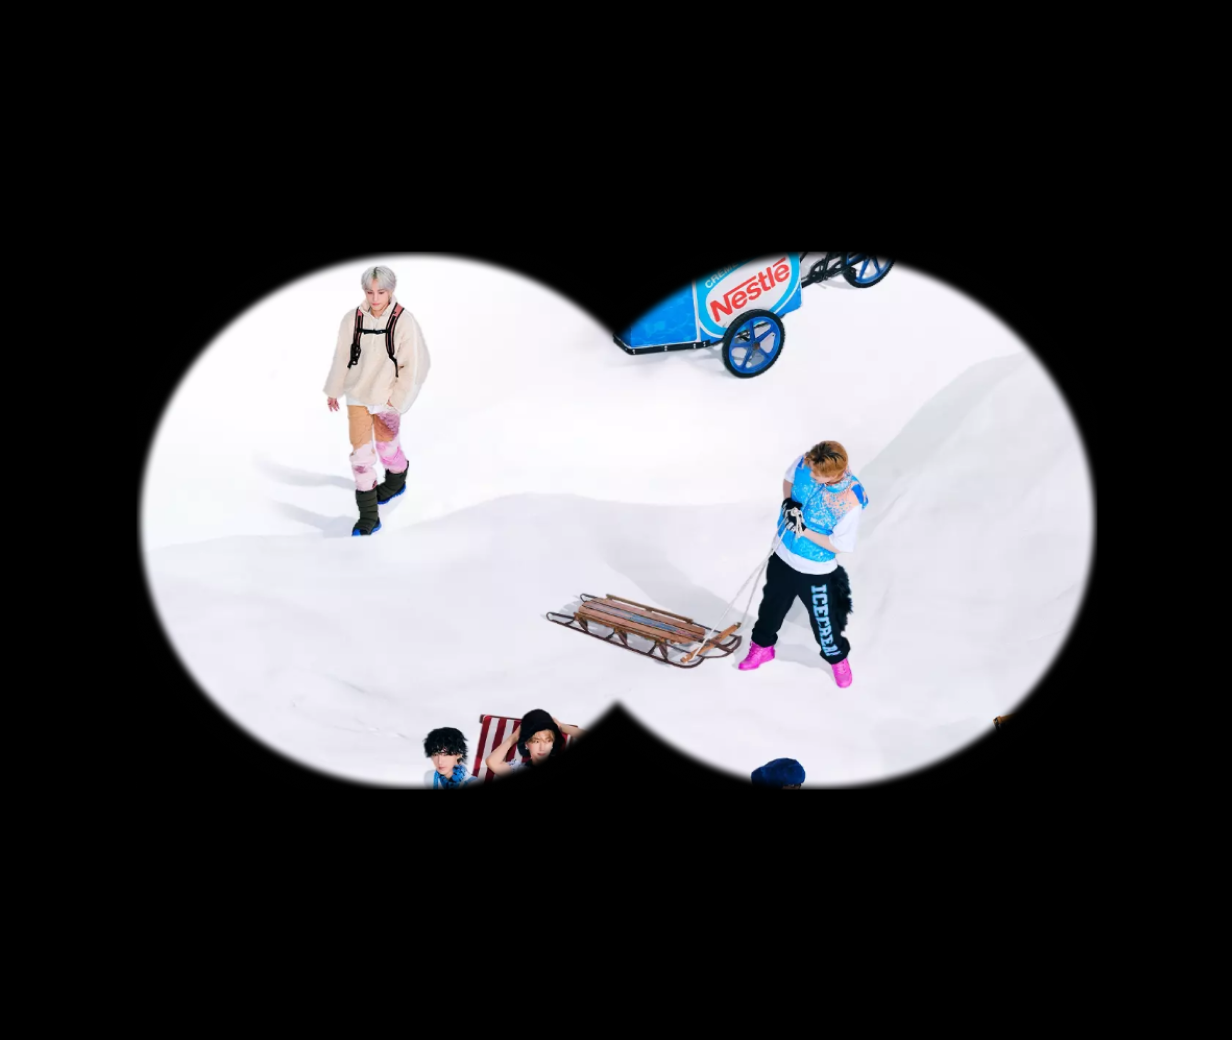
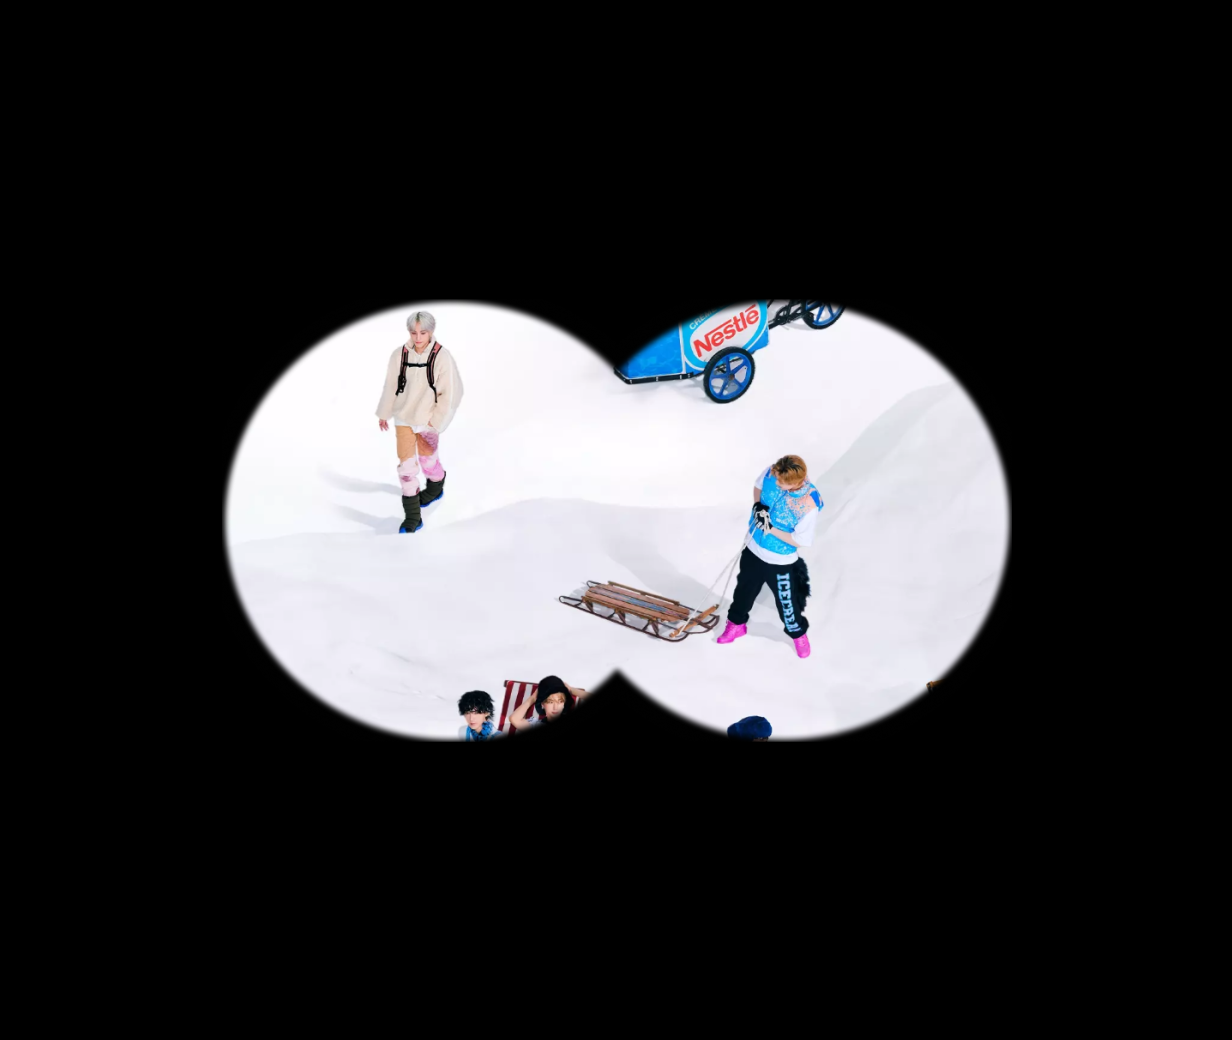
fix: p-14 이미지 업데이트, PortfolioWall img 태그로 변경 (캐시 제거)

Changed region(s): [[0.0925, 0.2154, 0.8945, 0.7692]]

diff --git a/app/components/PortfolioWall.tsx b/app/components/PortfolioWall.tsx
@@ -1,7 +1,6 @@
 "use client";
 
 import { useRef, useState, useEffect } from "react";
-import Image from "next/image";
 
 type Tile = { h: number; src: string };
 
@@ -58,7 +57,7 @@ export default function PortfolioWall() {
                     flexShrink: 0, position: "relative",
                   }}
                 >
-                  <Image src={t.src} alt="" fill style={{ objectFit: "cover" }} sizes="20vw" />
+                  <img src={t.src} alt="" style={{ width: "100%", height: "100%", objectFit: "cover", display: "block" }} />
                 </div>
               ))}
             </div>
